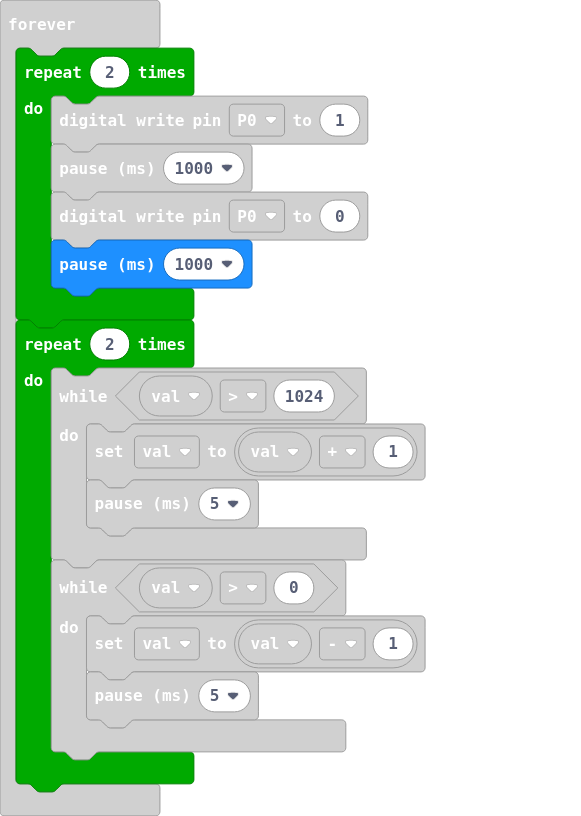
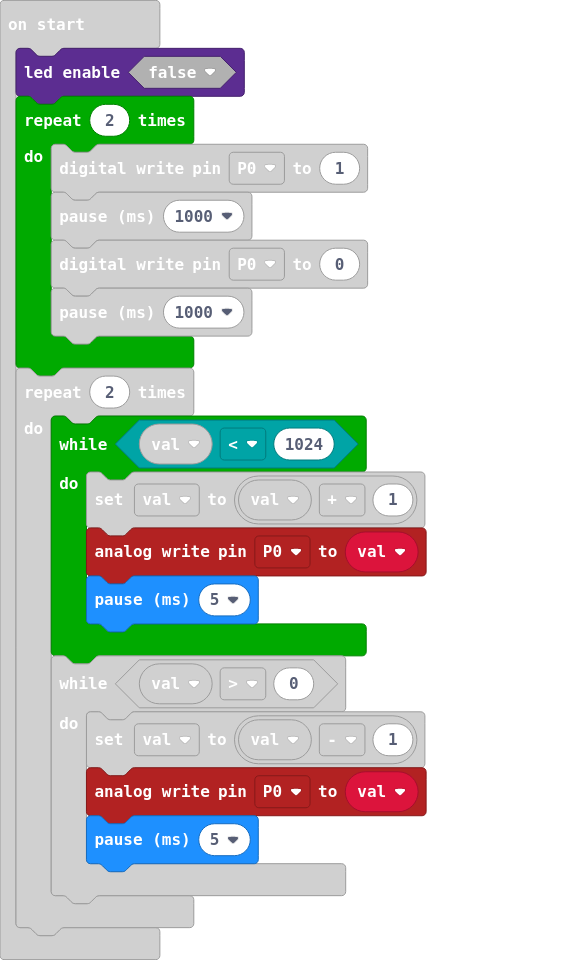
breath now works

diff --git a/main.ts b/main.ts
@@ -1,20 +1,23 @@
 let val = 0
 led.enable(false)
+for (let index = 0; index < 2; index++) {
+    pins.digitalWritePin(DigitalPin.P0, 1)
+    basic.pause(1000)
+    pins.digitalWritePin(DigitalPin.P0, 0)
+    basic.pause(1000)
+}
+for (let index = 0; index < 2; index++) {
+    while (val < 1024) {
+        val = val + 1
+        pins.analogWritePin(AnalogPin.P0, val)
+        basic.pause(5)
+    }
+    while (val > 0) {
+        val = val - 1
+        pins.analogWritePin(AnalogPin.P0, val)
+        basic.pause(5)
+    }
+}
 basic.forever(function () {
-    for (let index = 0; index < 2; index++) {
-        pins.digitalWritePin(DigitalPin.P0, 1)
-        basic.pause(1000)
-        pins.digitalWritePin(DigitalPin.P0, 0)
-        basic.pause(1000)
-    }
-    for (let index = 0; index < 2; index++) {
-        while (val > 1024) {
-            val = val + 1
-            basic.pause(5)
-        }
-        while (val > 0) {
-            val = val - 1
-            basic.pause(5)
-        }
-    }
+	
 })
